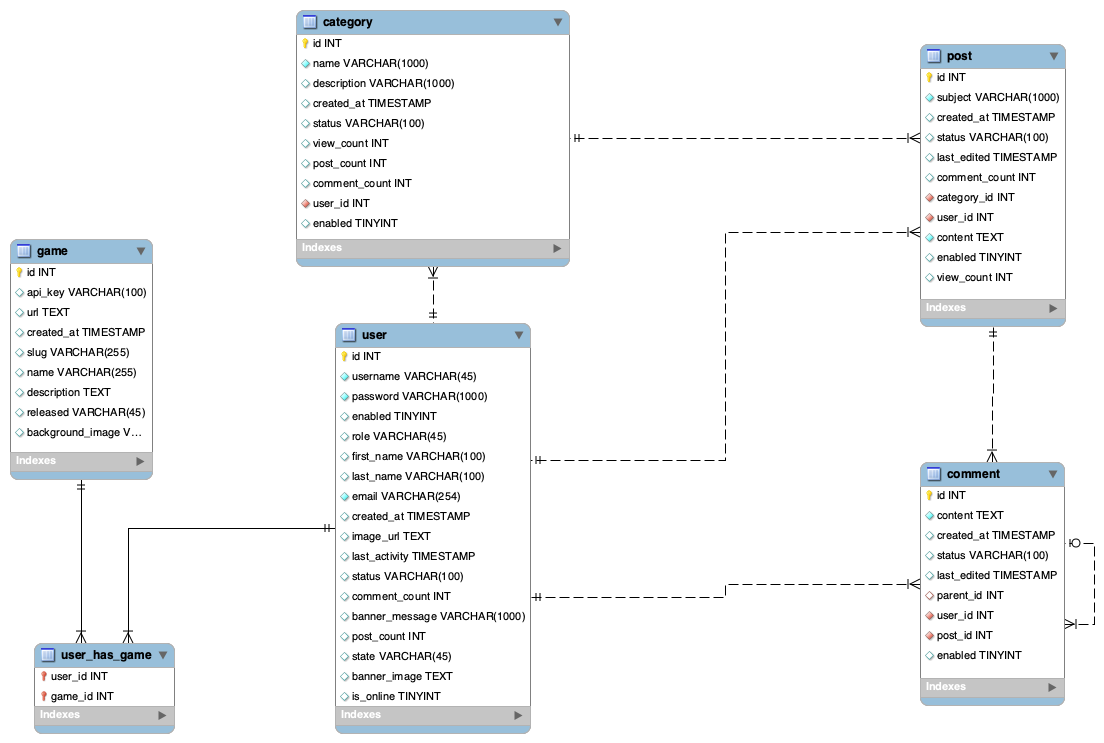
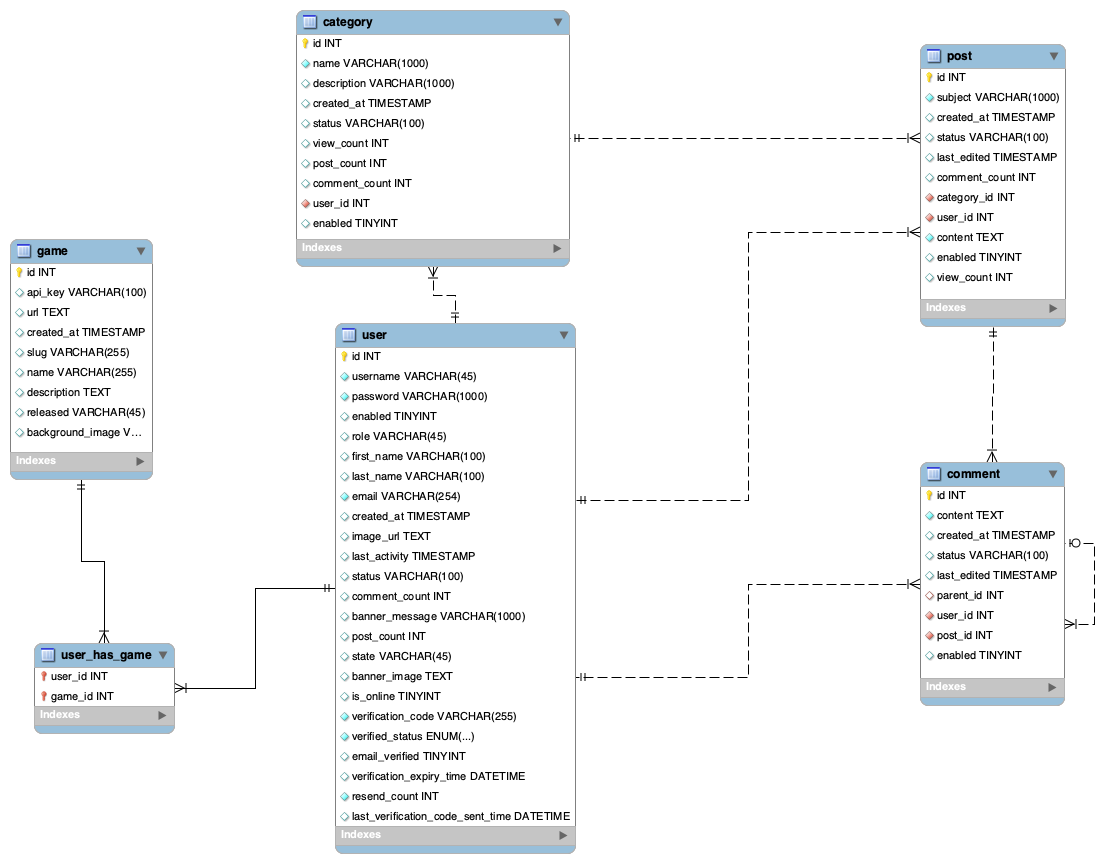
Add necessary columns to implement email verification for register new user account

diff --git a/LoreHunter/src/main/java/com/skilldistillery/lorehunter/controllers/AuthController.java b/LoreHunter/src/main/java/com/skilldistillery/lorehunter/controllers/AuthController.java
@@ -1,6 +1,8 @@
 package com.skilldistillery.lorehunter.controllers;
 
 import java.security.Principal;
+import java.util.UUID;
+
 import javax.servlet.http.Cookie;
 import javax.servlet.http.HttpServletRequest;
 import javax.servlet.http.HttpServletResponse;
@@ -41,6 +43,20 @@ public class AuthController {
 		user = authService.register(user);
 		return user;
 	}
+	
+//	@PostMapping("register")
+//	public User register(@RequestBody User user, HttpServletResponse res) {
+//	    if (user == null) {
+//	        res.setStatus(400);
+//	        return null;
+//	    }
+//	    user.setVerificationCode(UUID.randomUUID().toString());
+//	    user.setStatus(UserStatus.PENDING_VERIFICATION);
+//	    user = authService.register(user);
+//	    // Send verification email to the registered email address
+//	    emailService.sendVerificationEmail(user);
+//	    return user;
+//	}
 
 	@GetMapping("authenticate")
 	public User authenticate(Principal principal, HttpServletResponse res) {
